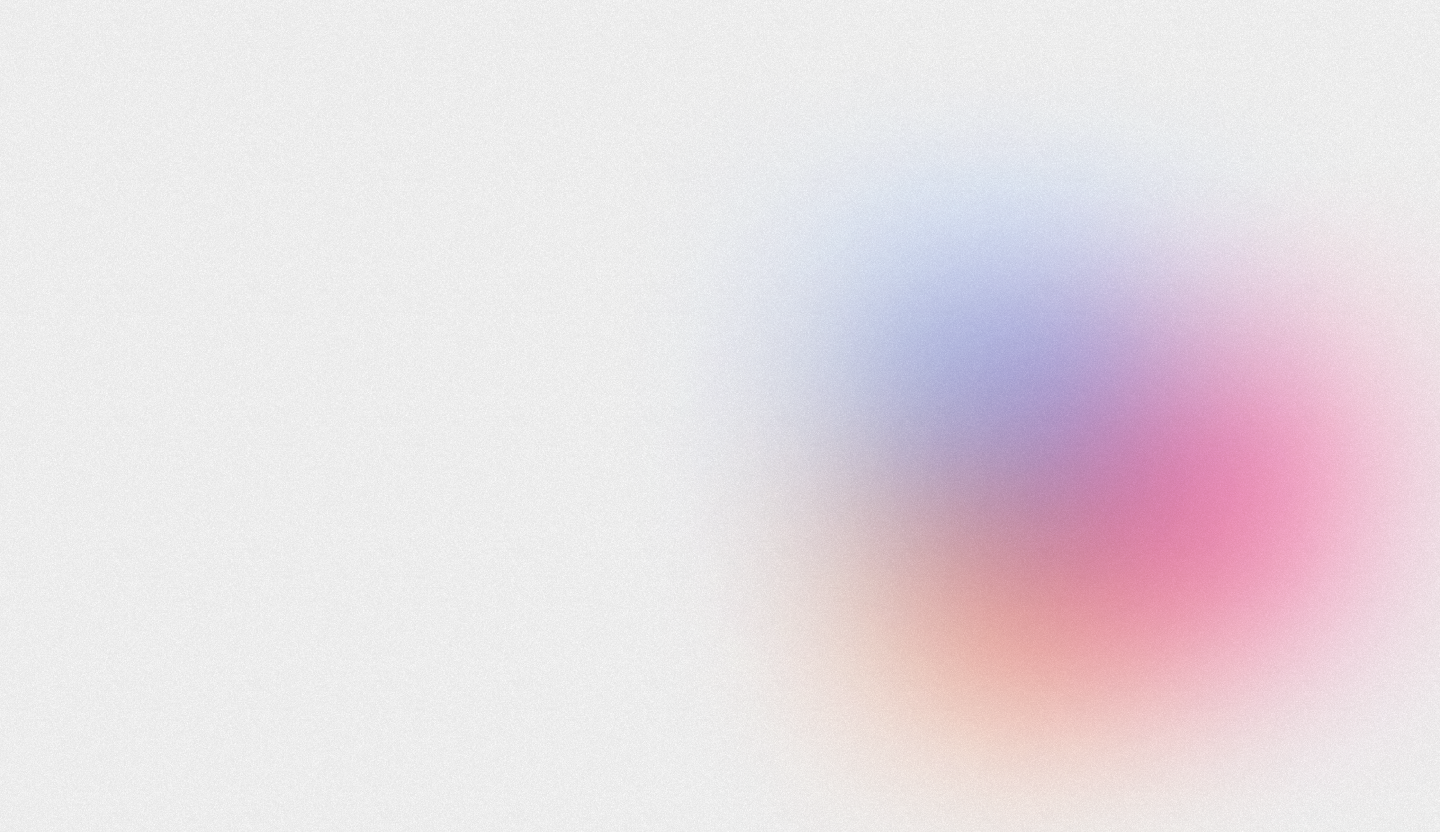
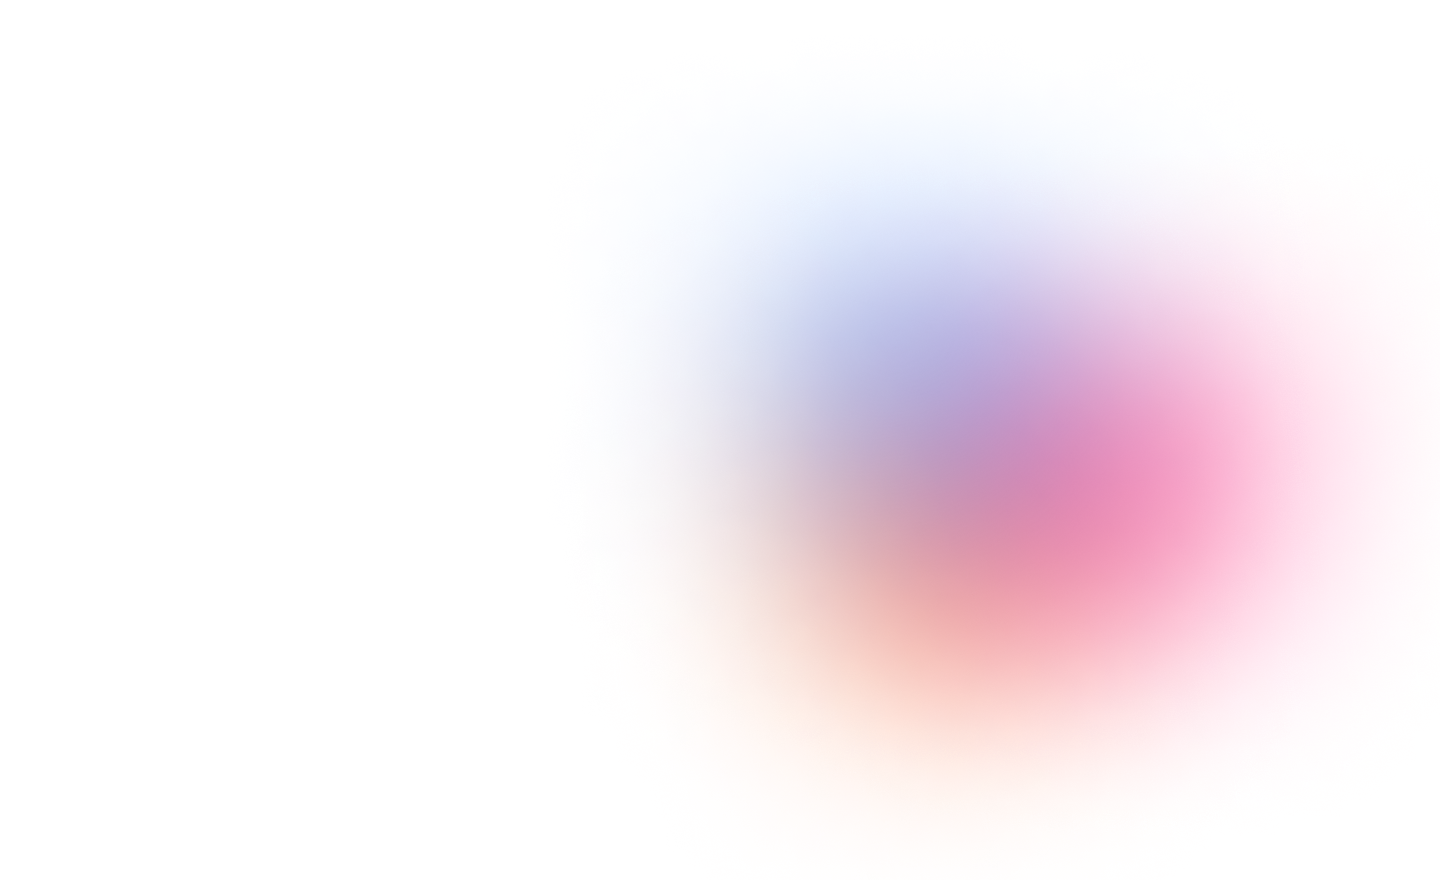
Responsive adjustments + background image

Changed region(s): [[0.5625, 0.1875, 1.0, 1.0]]

diff --git a/app/page.tsx b/app/page.tsx
@@ -35,9 +35,9 @@ export default function Home() {
         </div>
       </div>
 
-      <div className="flex max-w-6xl mx-4 flex-wrap py-10 gap-8 gap md:items-center md:py-40 md:gap-x-40">
+      <div className="flex max-w-7xl mx-4 flex-wrap py-10 gap-8 gap md:items-center md:py-40 md:gap-x-40">
 
-        <header className="flex flex-col gap-6 h-fit md:flex-1">
+        <header className="max-w-lg flex flex-col gap-6 h-fit md:flex-1">
           <h1 className="font-bold text-4xl md:text-7xl">Timestamps Generator</h1>
           <div>
 
@@ -46,7 +46,7 @@ export default function Home() {
               <div className='inline-block mr-2'>
                 <div className='inline-block h-[21px]'>
                   <div className='h-7 w-7 p-1 mr-2 rounded-md shadow-md rotate-12 bg-[#000000] border border-zinc-50 border-opacity-10 scale-100 transition-transform ease-in-out will-change-transform hover:scale-125'>
-                    <svg width="18" height="18" viewBox="0 0 16 16" fill="none" xmlns="http://www.w3.org/2000/svg">
+                    <svg width={18} height={18} viewBox="0 0 16 16" fill="none" xmlns="http://www.w3.org/2000/svg">
                       <path d="M4.00206 8.9017C3.83188 8.9017 3.69189 8.8468 3.58209 8.73701C3.47229 8.62172 3.4174 8.48173 3.4174 8.31704C3.4174 8.15783 3.47229 8.02333 3.58209 7.91354C3.69189 7.79825 3.83188 7.74061 4.00206 7.74061H7.41945V3.14565C7.41945 2.98645 7.47435 2.85195 7.58415 2.74215C7.69943 2.62687 7.83668 2.56922 7.99588 2.56922C8.16058 2.56922 8.29782 2.62687 8.40762 2.74215C8.5229 2.85195 8.58055 2.98645 8.58055 3.14565V8.31704C8.58055 8.48173 8.5229 8.62172 8.40762 8.73701C8.29782 8.8468 8.16058 8.9017 7.99588 8.9017H4.00206ZM8.00412 16C6.90616 16 5.87408 15.7886 4.90787 15.3659C3.94716 14.9487 3.09899 14.3723 2.36336 13.6366C1.62772 12.901 1.04855 12.0528 0.625836 11.0921C0.208612 10.1259 0 9.09384 0 7.99588C0 6.90341 0.208612 5.87408 0.625836 4.90787C1.04306 3.94167 1.61949 3.09075 2.35512 2.35512C3.09624 1.61949 3.94716 1.04306 4.90787 0.625836C5.87408 0.208612 6.90341 0 7.99588 0C9.08835 0 10.1177 0.208612 11.0839 0.625836C12.0501 1.04306 12.901 1.61949 13.6366 2.35512C14.3723 3.09075 14.9487 3.94167 15.3659 4.90787C15.7886 5.87408 16 6.90341 16 7.99588C16 9.09384 15.7914 10.1259 15.3742 11.0921C14.9569 12.0528 14.3805 12.901 13.6449 13.6366C12.9092 14.3723 12.0583 14.9487 11.0921 15.3659C10.1259 15.7886 9.09659 16 8.00412 16ZM8.00412 14.5342C8.90993 14.5342 9.75811 14.364 10.5486 14.0237C11.3392 13.6888 12.0336 13.2222 12.632 12.6238C13.2304 12.0254 13.697 11.3309 14.0319 10.5404C14.3668 9.74987 14.5342 8.9017 14.5342 7.99588C14.5342 7.09007 14.3668 6.24189 14.0319 5.45136C13.697 4.66083 13.2304 3.96638 12.632 3.36799C12.0336 2.7696 11.3364 2.30297 10.5404 1.96809C9.74987 1.63321 8.9017 1.46577 7.99588 1.46577C7.09007 1.46577 6.24189 1.63321 5.45136 1.96809C4.66632 2.30297 3.97461 2.7696 3.37622 3.36799C2.77784 3.96638 2.3112 4.66083 1.97633 5.45136C1.64145 6.24189 1.47401 7.09007 1.47401 7.99588C1.47401 8.9017 1.64145 9.74987 1.97633 10.5404C2.3112 11.3309 2.77784 12.0254 3.37622 12.6238C3.97461 13.2222 4.66907 13.6888 5.4596 14.0237C6.25013 14.364 7.0983 14.5342 8.00412 14.5342Z" fill="#ffffff" />
                     </svg>
                   </div>
@@ -57,7 +57,7 @@ export default function Home() {
               <div className='inline-block mr-2'>
                 <div className='inline-block h-[21px]'>
                   <div className='h-7 w-7 p-1 mr-2 rounded-md shadow-md -rotate-12 bg-[#5865F2] border border-zinc-50 border-opacity-10 scale-100 transition-transform ease-in-out will-change-transform hover:scale-125'>
-                    <svg width="18" height="18" viewBox="0 0 16 16" fill="none" xmlns="http://www.w3.org/2000/svg">
+                    <svg width={18} height={18} viewBox="0 0 16 16" fill="none" xmlns="http://www.w3.org/2000/svg">
                       <path d="M13.5644 2.93412C13.5598 2.92533 13.552 2.91855 13.5427 2.91508C12.5061 2.4394 11.4122 2.10007 10.2884 1.90559C10.2783 1.90374 10.2679 1.90511 10.2586 1.9095C10.2493 1.91389 10.2416 1.92109 10.2367 1.93008C10.0876 2.20062 9.9523 2.47852 9.83125 2.7627C8.61918 2.57873 7.3863 2.57873 6.17424 2.7627C6.0527 2.47781 5.91553 2.19985 5.76337 1.93008C5.75812 1.92136 5.75041 1.91439 5.74121 1.91003C5.73202 1.90567 5.72174 1.90413 5.71167 1.90559C4.58588 2.0992 3.49009 2.43854 2.45192 2.91508C2.44282 2.91893 2.43519 2.92561 2.43015 2.93412C0.356759 6.03333 -0.211928 9.05363 0.0656129 12.0386C0.0663988 12.0461 0.0687401 12.0533 0.0724877 12.0599C0.0762354 12.0665 0.0813074 12.0722 0.0873808 12.0766C1.29513 12.97 2.6458 13.6518 4.08179 14.0929C4.09212 14.0961 4.10318 14.096 4.11343 14.0926C4.12367 14.0891 4.1326 14.0826 4.13894 14.0739C4.44704 13.6544 4.72007 13.2103 4.95523 12.746C4.95836 12.7396 4.96014 12.7327 4.96046 12.7255C4.96077 12.7184 4.95962 12.7113 4.95706 12.7047C4.95451 12.6981 4.95061 12.692 4.94561 12.687C4.94062 12.6819 4.93463 12.6779 4.92802 12.6753C4.49662 12.51 4.079 12.3107 3.67909 12.0794C3.67202 12.075 3.6661 12.0691 3.66182 12.062C3.65754 12.0549 3.65502 12.0469 3.65449 12.0386C3.65396 12.0303 3.65542 12.0221 3.65875 12.0145C3.66209 12.0069 3.66719 12.0002 3.67365 11.995C3.758 11.9324 3.84235 11.8671 3.92126 11.8018C3.92822 11.7957 3.93677 11.7917 3.94592 11.7903C3.95507 11.7888 3.96445 11.79 3.97296 11.7937C6.59055 12.9882 9.42582 12.9882 12.0135 11.7937C12.0217 11.7896 12.031 11.788 12.0401 11.789C12.0493 11.7899 12.0579 11.7934 12.0652 11.7991C12.1441 11.8644 12.2284 11.9324 12.3128 11.995C12.3192 12.0002 12.3244 12.0069 12.3277 12.0145C12.331 12.0221 12.3325 12.0303 12.3319 12.0386C12.3314 12.0469 12.3289 12.0549 12.3246 12.062C12.3203 12.0691 12.3144 12.075 12.3073 12.0794C11.9085 12.3119 11.4907 12.5103 11.0584 12.6725C11.0518 12.6752 11.0458 12.6792 11.0408 12.6842C11.0358 12.6893 11.0319 12.6953 11.0294 12.702C11.0268 12.7086 11.0257 12.7157 11.026 12.7228C11.0263 12.7299 11.0281 12.7369 11.0312 12.7433C11.2705 13.2053 11.5433 13.6491 11.8475 14.0711C11.8538 14.0799 11.8628 14.0864 11.873 14.0898C11.8833 14.0933 11.8943 14.0934 11.9046 14.0902C13.3448 13.651 14.6994 12.9691 15.9099 12.0739C15.9161 12.0696 15.9213 12.0639 15.9251 12.0573C15.9288 12.0507 15.9311 12.0434 15.9317 12.0358C16.2637 8.58834 15.3712 5.59253 13.5644 2.93412ZM5.34706 10.2209C4.55797 10.2209 3.91037 9.49715 3.91037 8.61011C3.91037 7.72306 4.54708 6.99656 5.34706 6.99656C6.15519 6.99656 6.79734 7.72579 6.78374 8.60739C6.78374 9.49715 6.14703 10.2209 5.34706 10.2209ZM10.6639 10.2209C9.87478 10.2209 9.22719 9.49715 9.22719 8.61011C9.22719 7.72306 9.86118 6.99656 10.6639 6.99656C11.472 6.99656 12.1142 7.72579 12.1006 8.60739C12.1006 9.49715 11.4693 10.2209 10.6639 10.2209Z" fill="#ffffff" />
                     </svg>
                   </div>
@@ -67,7 +67,7 @@ export default function Home() {
               and other services that support timestamp format.
             </h2>
 
-            <div className='flex items-center gap-2 mt-2'>Made by <a href="https://x.com/niklas_peterson" className='flex gap-2' target='_blank' rel="noopener noreferrer">
+            <div className='items-center mt-2 hidden md:flex'>Made by <a href="https://x.com/niklas_peterson" className='group plainButton w-fit pl-1 pr-3 ml-1 gap-2 rounded-2xl' target='_blank' rel="noopener noreferrer">
               <Image src="/niklaspeterson.jpg" width={24} height={24} alt='Profile picture of Niklas Peterson' className='rounded-full' /> Niklas Peterson</a>
             </div>
           </div>
@@ -85,7 +85,7 @@ export default function Home() {
               Add to your server
             </a>
 
-            <div className="flex gap-1">
+            <div className="hidden md:flex gap-1">
               <a
                 href="https://buymeacoffee.com/niklaspeterson"
                 target="_blank"
@@ -132,6 +132,52 @@ export default function Home() {
           <DatePicker newTime={handleDateTimeChange} />
           <ResultList dateTime={dateTime.toISOString()} />
         </main>
+
+        <footer className='flex flex-col w-full items-center gap-2 md:hidden'>
+        <div className="flex gap-1">
+              <a
+                href="https://buymeacoffee.com/niklaspeterson"
+                target="_blank"
+                rel="noopener noreferrer"
+                className="plainButton"
+              >
+                <svg width="24" height="24" viewBox="0 0 24 24" fill="none" xmlns="http://www.w3.org/2000/svg">
+                  <path d="M12.4827 11.239C11.7643 11.5465 10.949 11.8952 9.8924 11.8952C9.4504 11.8944 9.01053 11.8337 8.58478 11.715L9.31555 19.2178C9.34141 19.5313 9.48427 19.8237 9.71575 20.0369C9.94723 20.25 10.2504 20.3682 10.5651 20.3682C10.5651 20.3682 11.6012 20.422 11.947 20.422C12.3191 20.422 13.4349 20.3682 13.4349 20.3682C13.7495 20.3682 14.0526 20.2498 14.284 20.0367C14.5154 19.8236 14.6582 19.5313 14.6841 19.2178L15.4668 10.9269C15.117 10.8074 14.764 10.7281 14.3661 10.7281C13.6778 10.7278 13.1233 10.9648 12.4827 11.239Z" className="fill-current" />
+                  <path d="M18.8461 7.34556L18.7361 6.79048C18.6373 6.29245 18.4132 5.82187 17.902 5.64187C17.7381 5.58428 17.5522 5.55954 17.4266 5.44034C17.3009 5.32115 17.2638 5.13604 17.2347 4.96437C17.1809 4.6493 17.1303 4.33396 17.0752 4.01943C17.0275 3.74902 16.9899 3.44526 16.8658 3.19718C16.7044 2.86409 16.3694 2.66929 16.0363 2.54041C15.8656 2.47669 15.6915 2.42279 15.5146 2.37897C14.6824 2.15942 13.8074 2.0787 12.9513 2.03269C11.9237 1.97598 10.8933 1.99307 9.8681 2.08381C9.10506 2.15323 8.30137 2.23718 7.57626 2.50112C7.31124 2.59772 7.03813 2.71368 6.83662 2.91844C6.58934 3.17001 6.50862 3.55907 6.68916 3.87279C6.81751 4.09557 7.03491 4.25297 7.2655 4.3571C7.56584 4.49127 7.87951 4.59336 8.20129 4.66168C9.09725 4.85971 10.0252 4.93746 10.9406 4.97056C11.9551 5.0115 12.9713 4.97832 13.981 4.87127C14.2307 4.84383 14.4799 4.81091 14.7287 4.77254C15.0217 4.72759 15.2098 4.34445 15.1234 4.07754C15.0201 3.75845 14.7424 3.63468 14.4284 3.68284C14.3821 3.6901 14.3361 3.69682 14.2898 3.70355L14.2565 3.70839C14.1501 3.72186 14.0437 3.7344 13.9374 3.74606C13.7177 3.76974 13.4974 3.78911 13.2766 3.80419C12.782 3.83862 12.2862 3.85449 11.7906 3.85531C11.3036 3.85531 10.8163 3.84158 10.3304 3.80957C10.1087 3.79504 9.88748 3.77656 9.66685 3.75413C9.56649 3.74364 9.4664 3.73262 9.36632 3.72023L9.27106 3.70813L9.25036 3.70517L9.15161 3.69091C8.94981 3.6605 8.74801 3.62553 8.54837 3.58328C8.52823 3.57881 8.5102 3.56761 8.49729 3.55151C8.48437 3.53542 8.47733 3.5154 8.47733 3.49476C8.47733 3.47413 8.48437 3.45411 8.49729 3.43801C8.5102 3.42192 8.52823 3.41071 8.54837 3.40624H8.55214C8.72515 3.36938 8.89949 3.3379 9.07438 3.31046C9.13269 3.30131 9.19115 3.29234 9.24981 3.28355H9.25142C9.36093 3.27629 9.47098 3.25664 9.57994 3.24373C10.528 3.14511 11.4817 3.11149 12.4344 3.1431C12.8969 3.15655 13.3592 3.18373 13.8195 3.23054C13.9185 3.24077 14.017 3.25153 14.1155 3.26364C14.1532 3.26821 14.1911 3.27359 14.229 3.27817L14.3055 3.2892C14.5282 3.32239 14.7498 3.36265 14.9703 3.41001C15.2969 3.48104 15.7164 3.50418 15.8617 3.86203C15.908 3.97557 15.929 4.10176 15.9545 4.22095L15.9871 4.37297C15.9879 4.3757 15.9886 4.37849 15.989 4.38131C16.0659 4.74006 16.143 5.09881 16.2201 5.45755C16.2257 5.48406 16.2259 5.51144 16.2205 5.53799C16.2151 5.56456 16.2043 5.5897 16.1887 5.61191C16.1732 5.6341 16.1532 5.65285 16.1301 5.66698C16.107 5.68112 16.0812 5.69033 16.0543 5.69407H16.0522L16.0051 5.70052L15.9586 5.7067C15.8111 5.7259 15.6635 5.74384 15.5157 5.76052C15.2246 5.79371 14.933 5.8224 14.641 5.84662C14.0607 5.89486 13.4793 5.92653 12.8967 5.9416C12.5998 5.94948 12.303 5.95317 12.0063 5.95263C10.8254 5.9517 9.64554 5.88306 8.4725 5.74706C8.3455 5.732 8.21851 5.71585 8.0915 5.69945C8.18998 5.7121 8.01993 5.68975 7.9855 5.68492C7.90478 5.67361 7.82406 5.66187 7.74334 5.64967C7.47239 5.60903 7.20307 5.55899 6.93266 5.51513C6.60575 5.46132 6.29311 5.48823 5.99741 5.64967C5.75469 5.78249 5.55824 5.98617 5.43427 6.23353C5.30673 6.49721 5.26879 6.78429 5.21175 7.06762C5.15471 7.35094 5.06592 7.65578 5.09956 7.94663C5.17193 8.57436 5.61077 9.08449 6.24199 9.19858C6.8358 9.30619 7.43285 9.39337 8.0315 9.46763C10.3832 9.75565 12.759 9.7901 15.118 9.57041C15.3101 9.55248 15.502 9.53293 15.6935 9.51176C15.7534 9.50519 15.8139 9.51207 15.8708 9.53193C15.9276 9.55179 15.9792 9.58411 16.022 9.62652C16.0647 9.66893 16.0974 9.72036 16.1176 9.77703C16.1379 9.83371 16.1452 9.89421 16.1391 9.95409L16.0794 10.5347C15.959 11.708 15.8386 12.8812 15.7183 14.0543C15.5927 15.2862 15.4664 16.5181 15.3392 17.7498C15.3033 18.0968 15.2674 18.4436 15.2316 18.7903C15.1971 19.1318 15.1923 19.4839 15.1274 19.8214C15.0252 20.352 14.666 20.6778 14.1419 20.797C13.6617 20.9063 13.1711 20.9637 12.6787 20.9681C12.1328 20.971 11.5871 20.9468 11.0412 20.9498C10.4584 20.9531 9.74462 20.8993 9.29475 20.4655C8.89949 20.0846 8.84487 19.488 8.79106 18.9721C8.71932 18.2893 8.6482 17.6065 8.57769 16.9238L7.92631 10.6714C7.92199 10.6308 7.91769 10.5907 7.91366 10.5498C7.88298 10.2568 7.67554 9.96998 7.34862 9.98477C7.06881 9.99714 6.75078 10.235 6.78361 10.5498L7.36558 16.1376C7.47733 17.2076 7.58881 18.2777 7.70002 19.3481C7.72156 19.5531 7.74173 19.7587 7.76432 19.9637C7.88729 21.0841 8.7429 21.6878 9.80246 21.8578C10.4213 21.9574 11.0552 21.9779 11.6832 21.9881C12.4882 22.0011 13.3013 22.032 14.0932 21.8861C15.2665 21.6708 16.1469 20.8874 16.2725 19.6721C16.3084 19.3212 16.3443 18.9703 16.3802 18.6192C16.4995 17.4583 16.6186 16.2973 16.7375 15.1362L17.3049 9.60378C17.3138 9.51756 17.3502 9.4365 17.4088 9.37259C17.4673 9.30868 17.5449 9.2653 17.63 9.24888C17.9655 9.1835 18.2862 9.07184 18.5249 8.8165C18.9048 8.40996 18.9804 7.87991 18.8461 7.34556ZM6.22477 7.72063C6.22988 7.71821 6.22046 7.76205 6.21643 7.78251C6.21562 7.75156 6.21723 7.72412 6.22477 7.72063ZM6.25732 7.97247C6.26001 7.97057 6.26808 7.98135 6.27643 7.99427C6.26378 7.98241 6.25598 7.97355 6.25732 7.97247ZM6.28934 8.0147C6.3071 8.04673 6.30091 8.03434 6.28934 8.0147ZM6.35365 8.0669H6.35526C6.35526 8.06879 6.35822 8.07067 6.3593 8.07256C6.35751 8.07048 6.3558 8.06859 6.35365 8.0669ZM17.6144 7.98887C17.4938 8.10349 17.3122 8.15677 17.1327 8.18341C15.1202 8.48207 13.0783 8.63328 11.0436 8.56655C9.58748 8.51678 8.14667 8.35506 6.70504 8.15139C6.56378 8.13148 6.41069 8.10565 6.31356 8.00152C6.13059 7.8051 6.22046 7.40959 6.26808 7.17228C6.31167 6.95488 6.39508 6.6651 6.65365 6.63416C7.05724 6.58681 7.52593 6.75711 7.92523 6.81766C8.40595 6.89101 8.88847 6.94976 9.37276 6.99389C11.4397 7.18224 13.5413 7.15291 15.5991 6.87739C15.9742 6.82698 16.3479 6.76842 16.7203 6.7017C17.052 6.64223 17.4198 6.53058 17.6203 6.87416C17.7578 7.10825 17.7761 7.42143 17.7548 7.68592C17.7483 7.80115 17.6982 7.90953 17.6144 7.98887Z" className="fill-current" />
+                </svg>
+              </a>
+              <a
+                href="https://x.com/AppTimestamps"
+                target='_blank'
+                rel="noopener noreferrer"
+                className="plainButton"
+              >
+                <svg width="24" height="24" viewBox="0 0 24 24" fill="none" xmlns="http://www.w3.org/2000/svg">
+                  <path d="M17.7512 2.96092H20.818L14.1179 10.6186L22 21.0391H15.8284L10.9946 14.7191L5.46359 21.0391H2.39494L9.5613 12.8483L2 2.96092H8.32828L12.6976 8.73759L17.7512 2.96092ZM16.6748 19.2034H18.3742L7.4049 4.70013H5.58133L16.6748 19.2034Z" className="fill-current" />
+                </svg>
+              </a>
+              <a
+                href='https://github.com/NiklasPeterson/timestamps'
+                target='_blank'
+                rel="noopener noreferrer"
+                className="plainButton"
+              >
+                <svg width="24" height="24" viewBox="0 0 24 24" fill="none" xmlns="http://www.w3.org/2000/svg">
+                  <path d="M12.0001 2C6.47791 2 2 6.59036 2 12.2531C2 16.7833 4.86533 20.6266 8.83865 21.9824C9.33844 22.0773 9.5219 21.76 9.5219 21.489C9.5219 21.2446 9.51265 20.4369 9.50832 19.5802C6.72628 20.2004 6.13926 18.3704 6.13926 18.3704C5.68437 17.1853 5.02893 16.8702 5.02893 16.8702C4.12164 16.2338 5.09733 16.2469 5.09733 16.2469C6.1015 16.3192 6.63024 17.3036 6.63024 17.3036C7.52215 18.8709 8.96965 18.4178 9.54028 18.1558C9.63002 17.4932 9.8892 17.0409 10.1752 16.7848C7.95403 16.5256 5.61911 15.6464 5.61911 11.7176C5.61911 10.5982 6.00977 9.68357 6.64944 8.96557C6.54562 8.70732 6.20332 7.66444 6.74632 6.25216C6.74632 6.25216 7.58607 5.97661 9.49706 7.30316C10.2947 7.07599 11.1502 6.96203 12.0001 6.95816C12.8499 6.96203 13.7061 7.07599 14.5052 7.30316C16.4138 5.97661 17.2525 6.25216 17.2525 6.25216C17.7968 7.66444 17.4544 8.70732 17.3505 8.96557C17.9917 9.68357 18.3797 10.5982 18.3797 11.7176C18.3797 15.6557 16.0404 16.5228 13.8135 16.7766C14.1722 17.0948 14.4918 17.7188 14.4918 18.6754C14.4918 20.0473 14.4802 21.1514 14.4802 21.489C14.4802 21.762 14.6602 22.0817 15.1671 21.981C19.1384 20.6237 22 16.7817 22 12.2531C22 6.59036 17.5228 2 12.0001 2Z" className="fill-current" />
+                  <path d="M5.81695 16.6513C5.79497 16.7017 5.71695 16.7168 5.64587 16.6822C5.57349 16.649 5.53282 16.5804 5.55629 16.5297C5.57778 16.4778 5.65597 16.4633 5.72819 16.4981C5.80075 16.5313 5.84207 16.6006 5.81695 16.6513Z" className="fill-current" />
+                  <path d="M6.22126 17.1096C6.17363 17.1545 6.08058 17.1337 6.01744 17.0626C5.95215 16.992 5.93992 16.8973 5.98818 16.8517C6.03727 16.8068 6.12752 16.8278 6.19296 16.8986C6.25826 16.9702 6.271 17.0642 6.22126 17.1096Z" className="fill-current" />
+                  <path d="M6.61486 17.6949C6.55369 17.7381 6.45369 17.6976 6.3919 17.6073C6.33073 17.517 6.33073 17.4088 6.39319 17.3654C6.45519 17.322 6.55369 17.361 6.61635 17.4506C6.67735 17.5424 6.67735 17.6506 6.61486 17.6949Z" className="fill-current" />
+                  <path d="M7.15396 18.2594C7.09926 18.3209 6.98275 18.3044 6.89746 18.2206C6.81016 18.1388 6.78588 18.0226 6.84075 17.9613C6.89612 17.8997 7.0133 17.917 7.09926 18.0001C7.18588 18.0818 7.21234 18.1988 7.15396 18.2594Z" className="fill-current" />
+                  <path d="M7.8978 18.5876C7.87367 18.6672 7.76147 18.7033 7.64839 18.6694C7.53551 18.6346 7.46163 18.5416 7.48443 18.4612C7.50788 18.3812 7.62063 18.3434 7.73451 18.3796C7.84721 18.4142 7.92129 18.5068 7.8978 18.5876Z" className="fill-current" />
+                  <path d="M8.7147 18.6481C8.7175 18.7318 8.62166 18.8013 8.50296 18.8028C8.38362 18.8054 8.28708 18.7377 8.2858 18.6553C8.2858 18.5708 8.3795 18.502 8.49884 18.5C8.6175 18.4977 8.7147 18.5649 8.7147 18.6481Z" className="fill-current" />
+                  <path d="M9.47502 18.5158C9.48924 18.5974 9.40677 18.6813 9.28891 18.7037C9.17303 18.7253 9.06577 18.6748 9.05107 18.5938C9.03669 18.5101 9.12065 18.4261 9.23636 18.4045C9.35436 18.3837 9.45998 18.4328 9.47502 18.5158Z" className="fill-current" />
+                </svg>
+              </a>
+            </div>
+        <p className='flex items-center contentSecondary gap-1 text-sm'>Made by <a href="https://x.com/niklas_peterson" className='flex items-center font-bold contentPrimary' target='_blank' rel="noopener noreferrer">Niklas Peterson</a>
+        </p>
+        
+        </footer>
 
       </div>
 

diff --git a/app/components/AppCard.tsx b/app/components/AppCard.tsx
@@ -26,8 +26,8 @@ const AppCard: React.FC<AppCardProps> = ({ href, imageSrc, imageAlt, title, desc
         <div className='text-sm font-semibold contentPrimary'>{title}</div>
         <div className='text-xs contentSecondary'>{description}</div>
       </div>
-      <svg width={20} height={20} viewBox="0 0 20 20" fill="currentColor" xmlns="http://www.w3.org/2000/svg">
-        <path fillRule="evenodd" clipRule="evenodd" d="M5.21967 14.7803C5.51256 15.0732 5.98744 15.0732 6.28033 14.7803L13.5 7.56066V13.25C13.5 13.6642 13.8358 14 14.25 14C14.6642 14 15 13.6642 15 13.25V5.75C15 5.33579 14.6642 5 14.25 5H6.75C6.33579 5 6 5.33579 6 5.75C6 6.16421 6.33579 6.5 6.75 6.5H12.4393L5.21967 13.7197C4.92678 14.0126 4.92678 14.4874 5.21967 14.7803Z"/>
+      <svg width={24} height={24} viewBox="0 0 20 20" fill="currentColor" xmlns="http://www.w3.org/2000/svg">
+        <path fillRule="evenodd" clipRule="evenodd" d="M5.22001 14.78C5.36064 14.9205 5.55126 14.9993 5.75001 14.9993C5.94876 14.9993 6.13939 14.9205 6.28001 14.78L13.5 7.56V13.25C13.5 13.4489 13.579 13.6397 13.7197 13.7803C13.8603 13.921 14.0511 14 14.25 14C14.4489 14 14.6397 13.921 14.7803 13.7803C14.921 13.6397 15 13.4489 15 13.25V5.75C15 5.55109 14.921 5.36032 14.7803 5.21967C14.6397 5.07902 14.4489 5 14.25 5H6.75001C6.5511 5 6.36033 5.07902 6.21968 5.21967C6.07903 5.36032 6.00001 5.55109 6.00001 5.75C6.00001 5.94891 6.07903 6.13968 6.21968 6.28033C6.36033 6.42098 6.5511 6.5 6.75001 6.5H12.44L5.22001 13.72C5.07956 13.8606 5.00067 14.0512 5.00067 14.25C5.00067 14.4488 5.07956 14.6394 5.22001 14.78Z" />
       </svg>
     </div>
   </a>

diff --git a/app/globals.css b/app/globals.css
@@ -99,6 +99,13 @@
 
 }
 
+.p-sa {
+  padding-top: env(safe-area-inset-top);
+  padding-right: env(safe-area-inset-right);
+  padding-bottom: env(safe-area-inset-bottom);
+  padding-left: env(safe-area-inset-left);
+}
+
 .pt-sa {
   padding-top: env(safe-area-inset-top);
 }
@@ -114,13 +121,4 @@
 
 body {
   font-family: Arial, Helvetica, sans-serif;
-
-  background-image: url(../public/bg.png);
-  background-repeat: no-repeat;
-  background-size: cover;
-  background-position: top center;
-  padding-top: env(safe-area-inset-top);
-  padding-right: env(safe-area-inset-right);
-  padding-bottom: env(safe-area-inset-bottom);
-  padding-left: env(safe-area-inset-left);
 }

diff --git a/app/layout.tsx b/app/layout.tsx
@@ -26,7 +26,7 @@ export default function RootLayout({
   return (
     <html lang="en">
       <body
-        className={`${inter.className} antialiased backgroundPrimary contentPrimary flex flex-col min-h-screen justify-start items-start md:justify-center md:items-center`}>
+        className={`${inter.className} antialiased p-sa contentPrimary flex flex-col min-h-screen justify-start items-start bg-white dark:bg-black bg-no-repeat bg-[url(../public/bg.png)] bg-center bg-cover md:bg-auto  md:justify-center md:items-center`}>
         {children}
         <Analytics />
         <SpeedInsights />
